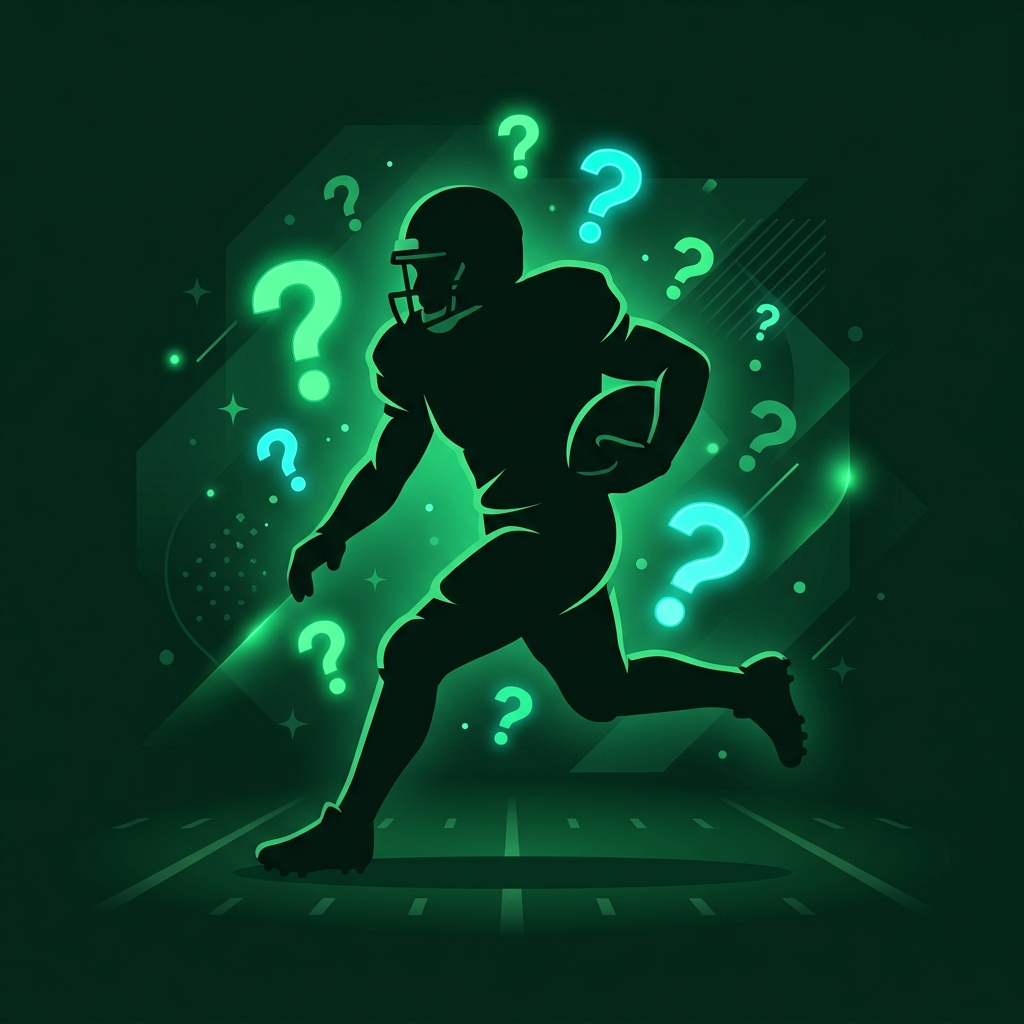
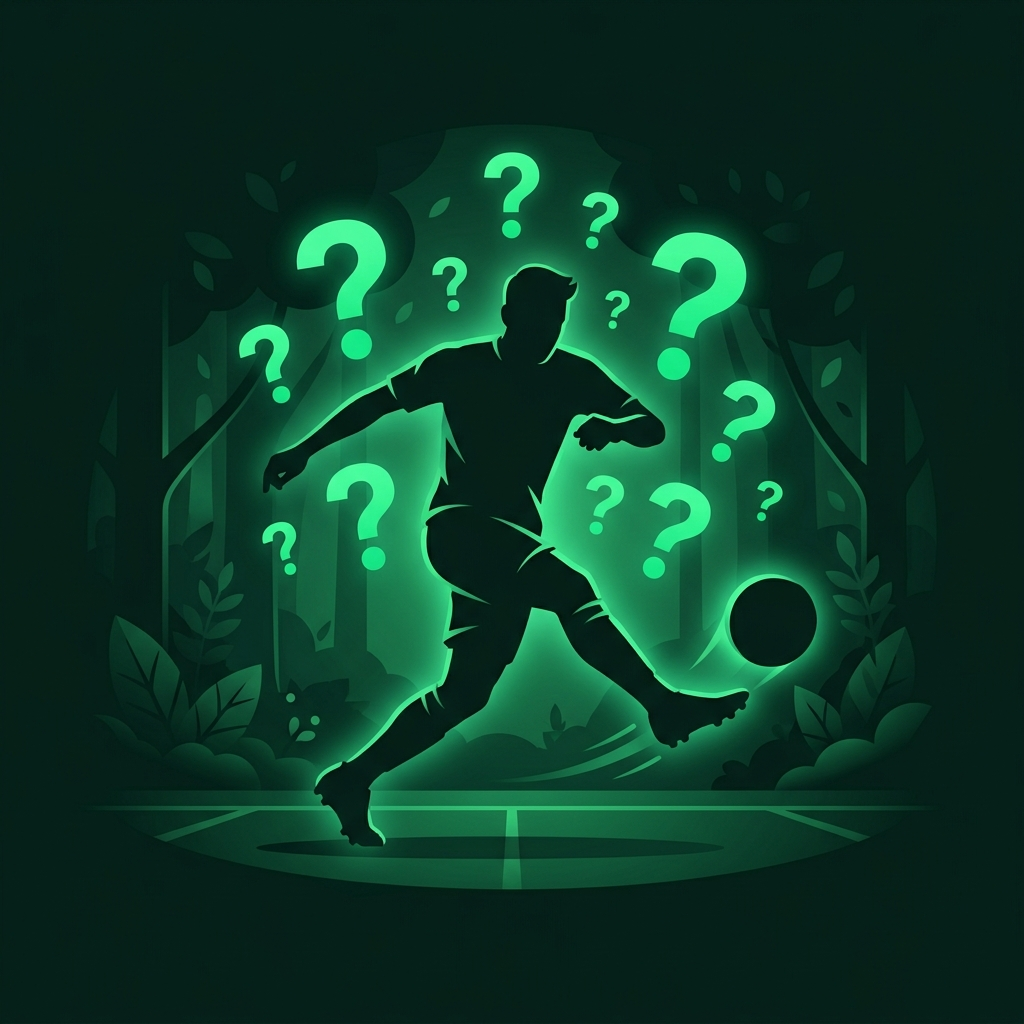
fix: replace American football images with European soccer equivalents and link correct Onze de Légende bg

Changed region(s): [[0.0938, 0.0938, 0.875, 0.9062], [0.8438, 0.6875, 0.9062, 0.7188]]

diff --git a/src/components/Home.jsx b/src/components/Home.jsx
@@ -26,7 +26,7 @@ export default function Home({ onSelectMode }) {
           onClick={() => onSelectMode('football_xi')}
           className="mode-card"
           style={{
-            background: 'linear-gradient(to bottom, rgba(5,16,9,0.4), rgba(5,16,9,0.85)), url(/pitch_card_bg.jpg) center/cover no-repeat',
+            background: 'linear-gradient(to bottom, rgba(5,16,9,0.4), rgba(5,16,9,0.85)), url(/legends_card_bg.png) center/cover no-repeat',
             border: '2px solid rgba(209, 214, 211, 0.3)',
             borderRadius: '24px',
             padding: '2rem',
@@ -43,13 +43,13 @@ export default function Home({ onSelectMode }) {
             e.currentTarget.style.transform = 'translateY(-10px)';
             e.currentTarget.style.boxShadow = '0 20px 40px rgba(157, 163, 161, 0.2)';
             e.currentTarget.style.borderColor = 'rgba(255, 255, 255, 0.8)';
-            e.currentTarget.style.background = 'linear-gradient(to bottom, rgba(169, 181, 177, 0.3), rgba(5,16,9,0.85)), url(/pitch_card_bg.jpg) center/cover no-repeat';
+            e.currentTarget.style.background = 'linear-gradient(to bottom, rgba(169, 181, 177, 0.3), rgba(5,16,9,0.85)), url(/legends_card_bg.png) center/cover no-repeat';
           }}
           onMouseLeave={(e) => {
             e.currentTarget.style.transform = 'translateY(0)';
             e.currentTarget.style.boxShadow = 'none';
             e.currentTarget.style.borderColor = 'rgba(167, 187, 181, 0.3)';
-            e.currentTarget.style.background = 'linear-gradient(to bottom, rgba(5,16,9,0.4), rgba(5,16,9,0.85)), url(/pitch_card_bg.jpg) center/cover no-repeat';
+            e.currentTarget.style.background = 'linear-gradient(to bottom, rgba(5,16,9,0.4), rgba(5,16,9,0.85)), url(/legends_card_bg.png) center/cover no-repeat';
           }}
         >
           <div style={{ background: 'rgba(16,185,129,0.2)', padding: '1rem', borderRadius: '50%' }}>
